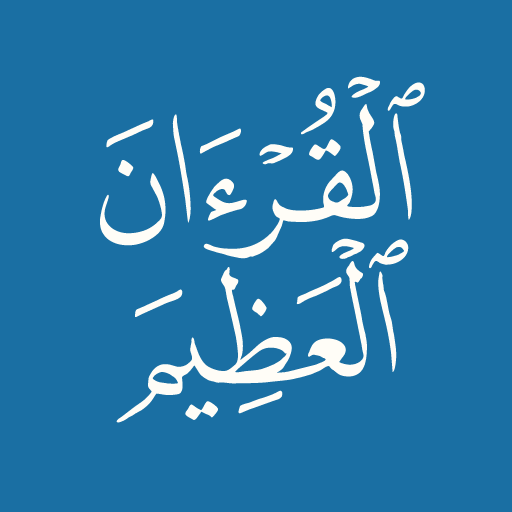
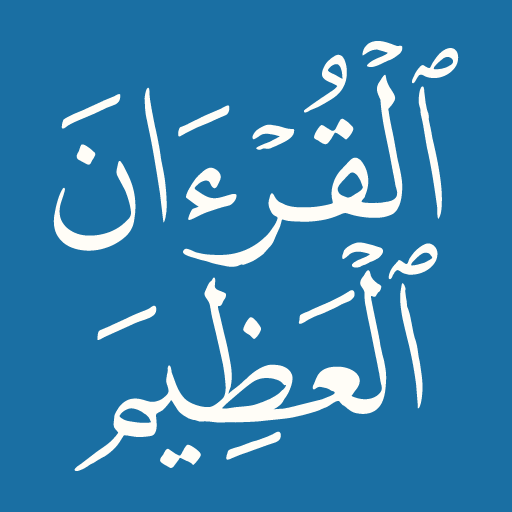
Colours that follow the page, and one size for every row
- Surah titles, the Basmalah, the head and the folio take the page's own colours; the number colour setting covers every figure on the page, and the preview shows them
- Dark: brighter page text, a recited word that lifts off it, accent discs instead of gold
- Light: darker quiet labels, and reader bars tinted cool so they read as a surface over warm paper
- Row titles, meta lines and icon labels are dimens tokens; the play button state is one function
- Play icon art: the name fills the square

diff --git a/app/src/main/java/com/readqurantoday/quran/MushafPageView.kt b/app/src/main/java/com/readqurantoday/quran/MushafPageView.kt
@@ -476,9 +476,11 @@ class MushafPageView @JvmOverloads constructor(
         dressedAt = Settings.styleVersion
         setBackgroundColor(paperTrial ?: Settings.paperColor(context))
         paint.color = inkTrial ?: Settings.inkColor(context)
-        label.color = context.getColor(R.color.accent)
+        // The juz and page numbers are the page's own figures, so they take the ayah number's colour
+        label.color = markTrial ?: Settings.resolvedAyahColor(context)
         markPaint.color = markTrial ?: Settings.resolvedAyahColor(context)
-        titlePaint.color = context.getColor(R.color.ornament)
+        // Surah titles and the Basmalah are the page's own words, so they take the page's ink
+        titlePaint.color = inkTrial ?: Settings.inkColor(context)
         litPaint.color = litTrial ?: Settings.highlightColor(context)
         inkSpread = spread(Settings.inkWeight(context))
         markSpread = spread(Settings.ayahWeight(context))
@@ -721,6 +723,9 @@ class MushafPageView @JvmOverloads constructor(
         val centreOffset = -(paint.ascent() + paint.descent()) / 2f
         val y = height / 2f + centreOffset
 
+        // The head and the folio are in the preview too, since they take the same colour as the ayah numbers
+        previewLabels(canvas, left, measure)
+
         atSurah = Ayat.surahAt(pageNo)
         atAyah  = Ayat.ayahAt(pageNo)
         atWord  = Ayat.wordAt(pageNo)
@@ -742,6 +747,17 @@ class MushafPageView @JvmOverloads constructor(
                 }
             }
         }
+    }
+
+    // A page's figures, drawn small at the edges of the preview
+    private fun previewLabels(canvas: Canvas, left: Float, measure: Float) {
+        val edge = label.textSize * 0.9f
+        label.textAlign = Paint.Align.RIGHT
+        canvas.drawText(headJuz, left + measure, edge, label)
+        label.textAlign = Paint.Align.LEFT
+        canvas.drawText(headPage, left, edge, label)
+        label.textAlign = Paint.Align.CENTER
+        canvas.drawText(folioText, left + measure / 2f, height - edge * 0.4f, label)
     }
 
     /* One line fitted to the measure, right to left. Short lines are centred. */

diff --git a/app/src/main/java/com/readqurantoday/quran/SurahAdapter.kt b/app/src/main/java/com/readqurantoday/quran/SurahAdapter.kt
@@ -1,6 +1,5 @@
 package com.readqurantoday.quran
 
-import android.content.res.ColorStateList
 import android.graphics.Typeface
 import android.text.Spannable
 import android.text.SpannableString
@@ -138,19 +137,6 @@ class SurahAdapter(
         holder.num.setBackgroundResource(R.drawable.num_circle)
         holder.num.setTextColor(ctx.getColor(R.color.on_dark))
 
-        val waiting = playing && Recite.waiting()
-        val onDisc = ctx.getColor(R.color.accent)
-        holder.play?.apply {
-            setImageResource(if (active) R.drawable.ic_pause else R.drawable.ic_play)
-            setBackgroundResource(R.drawable.chip_soft)
-            imageTintList = ColorStateList.valueOf(onDisc)
-            imageAlpha = if (waiting) 0 else 255
-        }
-        holder.playWait?.apply {
-            indeterminateTintList = ColorStateList.valueOf(onDisc)
-            visibility = if (waiting) android.view.View.VISIBLE else android.view.View.GONE
-        }
-        // The label says what the button does now, as the juz rows and the reader's player do
-        holder.playLabel?.setText(if (active) R.string.stop else R.string.play)
+        sayPlayButton(holder.itemView, playing = active, waiting = playing && Recite.waiting())
     }
 }

diff --git a/app/src/main/java/com/readqurantoday/quran/JuzAdapter.kt b/app/src/main/java/com/readqurantoday/quran/JuzAdapter.kt
@@ -3,7 +3,6 @@ package com.readqurantoday.quran
 import android.view.LayoutInflater
 import android.view.View
 import android.view.ViewGroup
-import android.widget.ImageView
 import android.widget.TextView
 import androidx.recyclerview.widget.RecyclerView
 
@@ -54,14 +53,6 @@ class JuzAdapter(
     // Only the juz being recited shows pause, and only its own button waits for the audio
     private fun sayPlay(row: View, juz: Int) {
         val here = playingJuz() == juz
-        val playing = here && Recite.wantsToPlay()
-        val waiting = here && Recite.waiting()
-
-        row.findViewById<ImageView>(R.id.play).apply {
-            setImageResource(if (playing) R.drawable.ic_pause else R.drawable.ic_play)
-            visibility = if (waiting) View.INVISIBLE else View.VISIBLE
-        }
-        row.findViewById<View>(R.id.play_wait).visibility = if (waiting) View.VISIBLE else View.GONE
-        row.findViewById<TextView>(R.id.play_label).setText(if (playing) R.string.stop else R.string.play)
+        sayPlayButton(row, playing = here && Recite.wantsToPlay(), waiting = here && Recite.waiting())
     }
 }

diff --git a/app/src/main/java/com/readqurantoday/quran/PlayButton.kt b/app/src/main/java/com/readqurantoday/quran/PlayButton.kt
@@ -1,0 +1,18 @@
+package com.readqurantoday.quran
+
+import android.view.View
+import android.widget.ImageView
+import android.widget.ProgressBar
+import android.widget.TextView
+
+/** Say what the play button in a list row is doing; the colours live in part_row_actions. */
+fun sayPlayButton(row: View, playing: Boolean, waiting: Boolean) {
+    // Hidden rather than gone while waiting, so the spinner lands on the disc it replaces
+    row.findViewById<ImageView>(R.id.play).apply {
+        setImageResource(if (playing) R.drawable.ic_pause else R.drawable.ic_play)
+        imageAlpha = if (waiting) 0 else 255
+    }
+    row.findViewById<ProgressBar>(R.id.play_wait).visibility =
+        if (waiting) View.VISIBLE else View.GONE
+    row.findViewById<TextView>(R.id.play_label).setText(if (playing) R.string.stop else R.string.play)
+}

diff --git a/tools/render_store_art.py b/tools/render_store_art.py
@@ -17,7 +17,7 @@ OUT = os.path.join(ROOT, 'store')
 GROUND = (0x1A, 0x6F, 0xA3)
 INK = (0xFF, 0xFD, 0xF7)
 SS = 4  # supersampling factor
-ICON_SEEN = 80  # of the 108dp icon canvas, the part shown on Play; launchers show about 72
+ICON_FILL = 0.84  # of the icon's width the name takes; the rest is the margin Play's rounded corners need
 
 
 def contours(path_data):
@@ -116,10 +116,12 @@ def main():
     ys = [y for p in polys for _, y in p]
     minx, maxx, miny, maxy = min(xs), max(xs), min(ys), max(ys)
 
-    # Icon: launchers show only the middle of the 108dp canvas, so Play gets that middle too, or the name looks small
-    seen = ICON_SEEN
-    edge = (108 - seen) / 2
-    paint(512, 512, transformed(polys, 512 / seen, -edge * 512 / seen, -edge * 512 / seen)).save(os.path.join(OUT, 'icon-512.png'))
+    # Icon: the name fills the square, since Play draws the whole picture rather than cropping to a launcher's mask
+    box = 512 * ICON_FILL
+    scale = box / max(maxx - minx, maxy - miny)
+    dx = (512 - (maxx - minx) * scale) / 2 - minx * scale
+    dy = (512 - (maxy - miny) * scale) / 2 - miny * scale
+    paint(512, 512, transformed(polys, scale, dx, dy)).save(os.path.join(OUT, 'icon-512.png'))
 
     # Feature graphic: the words large on the left, the English name on the right
     scale = 380 / (maxy - miny)
